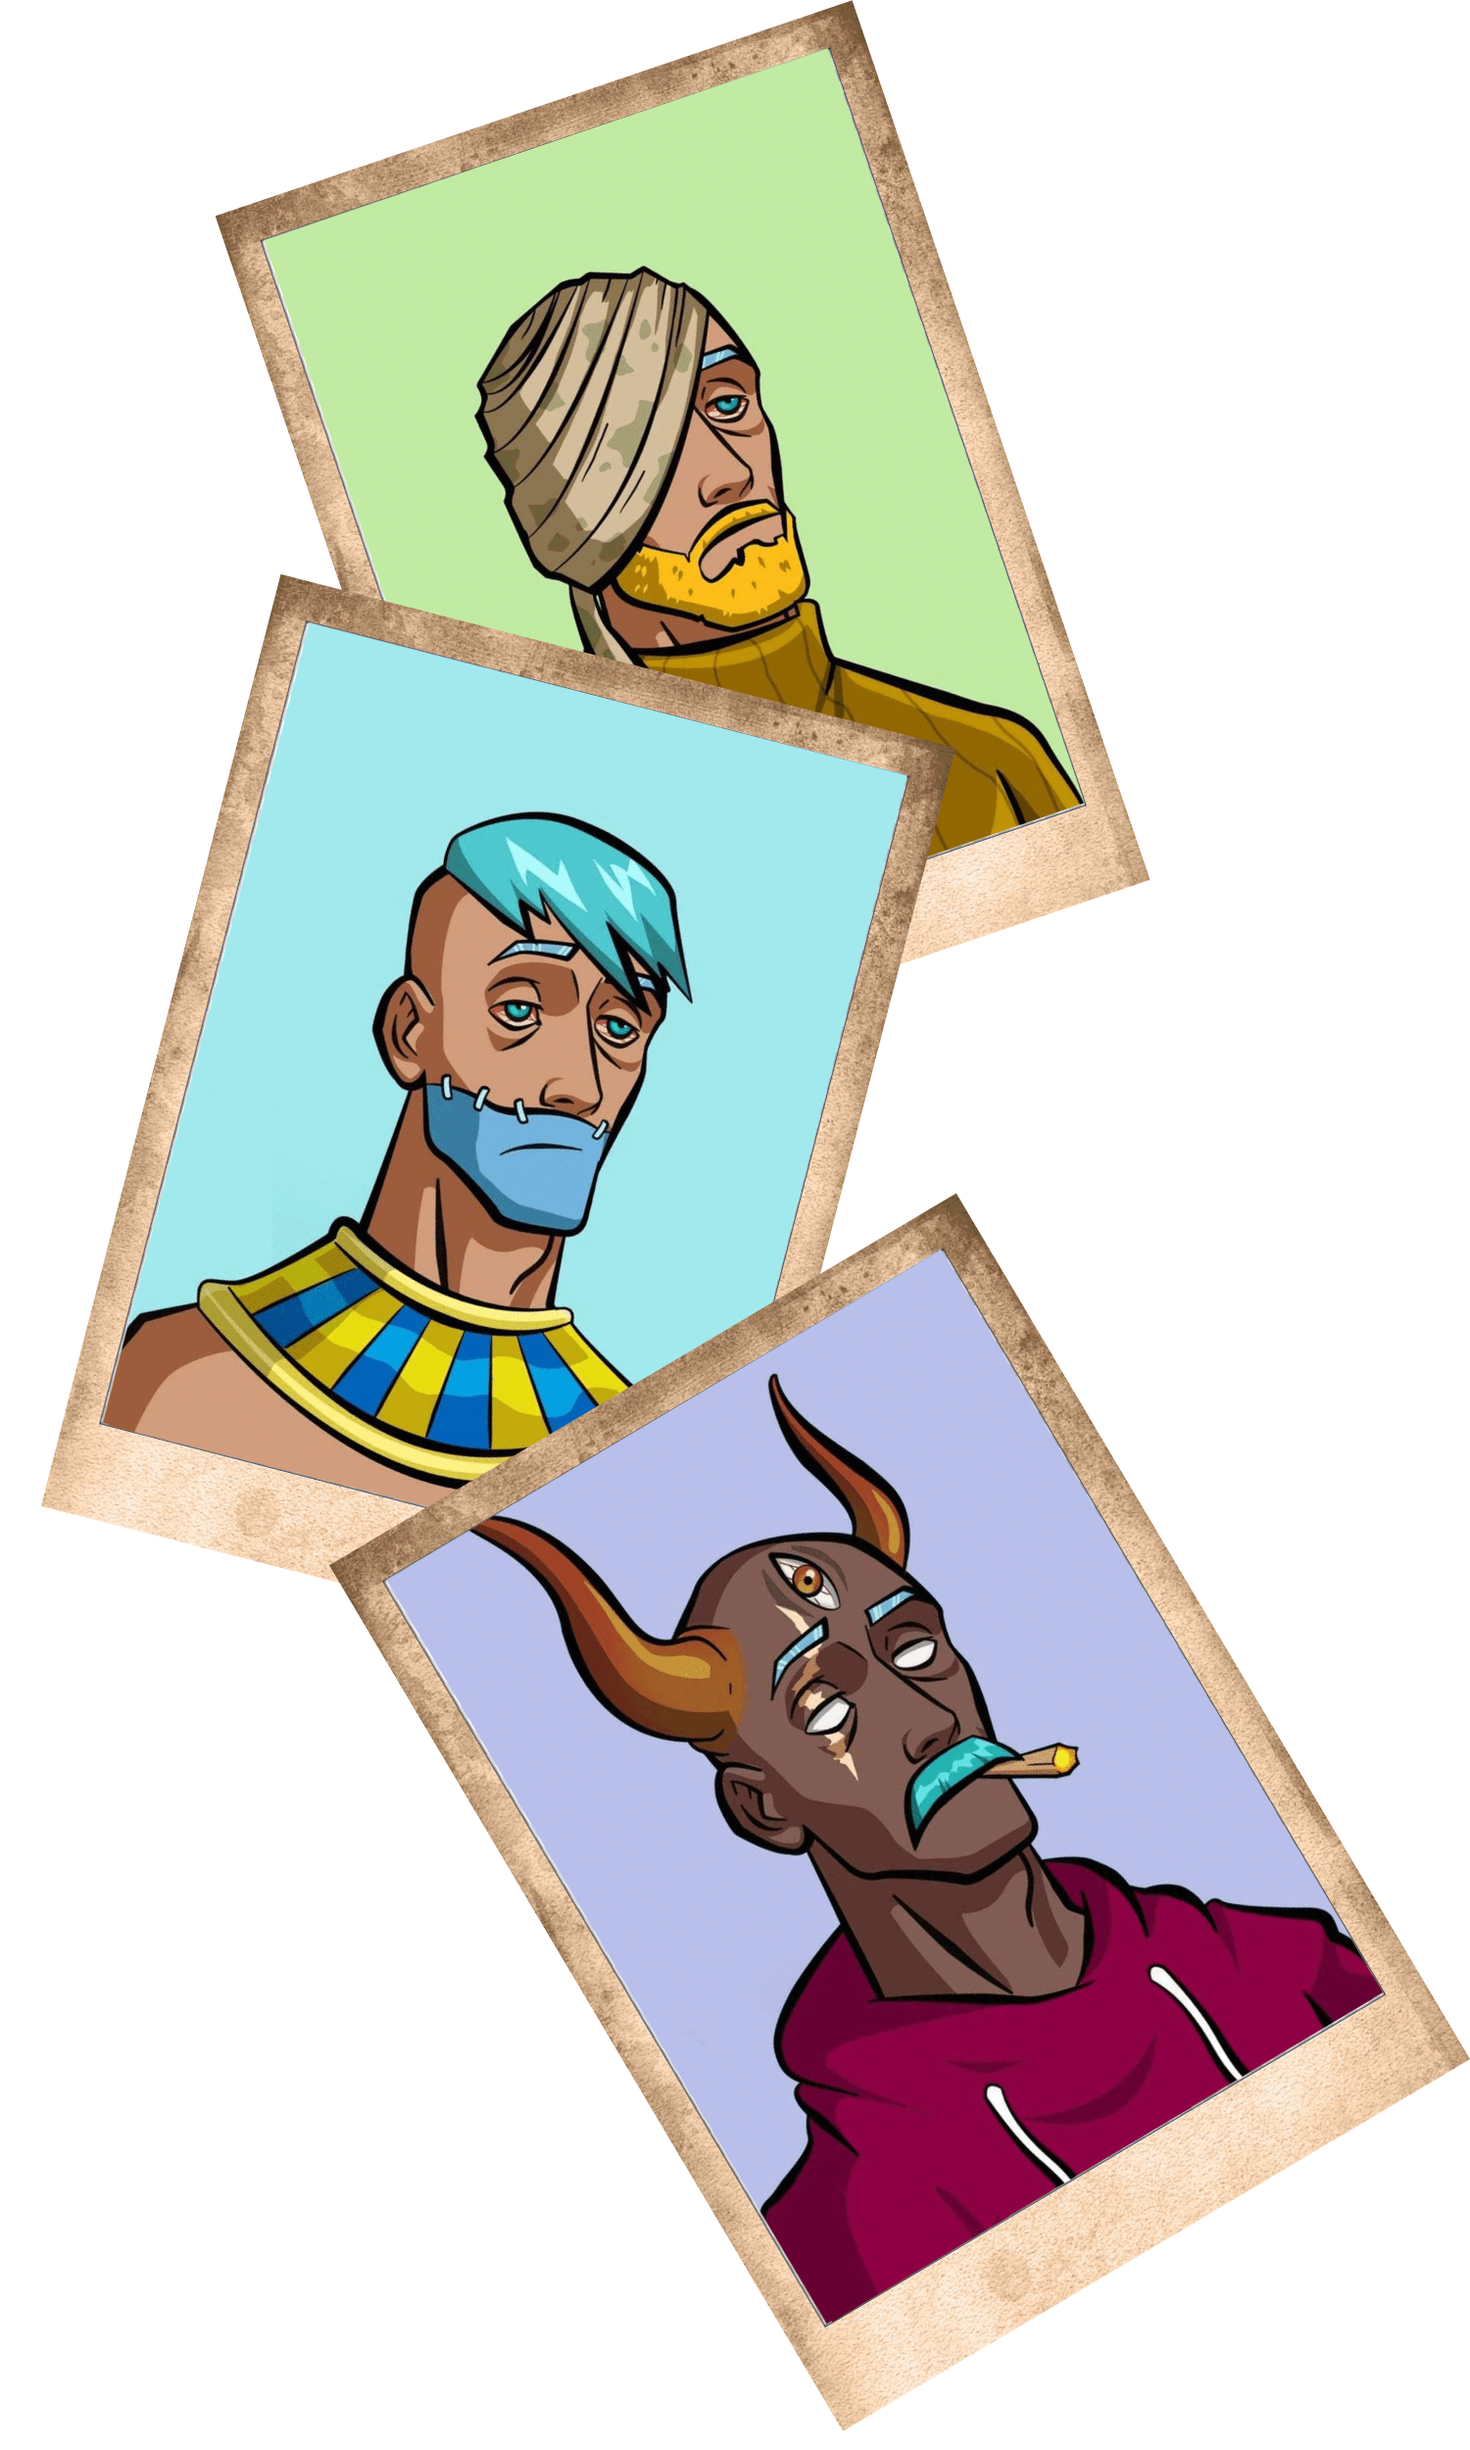
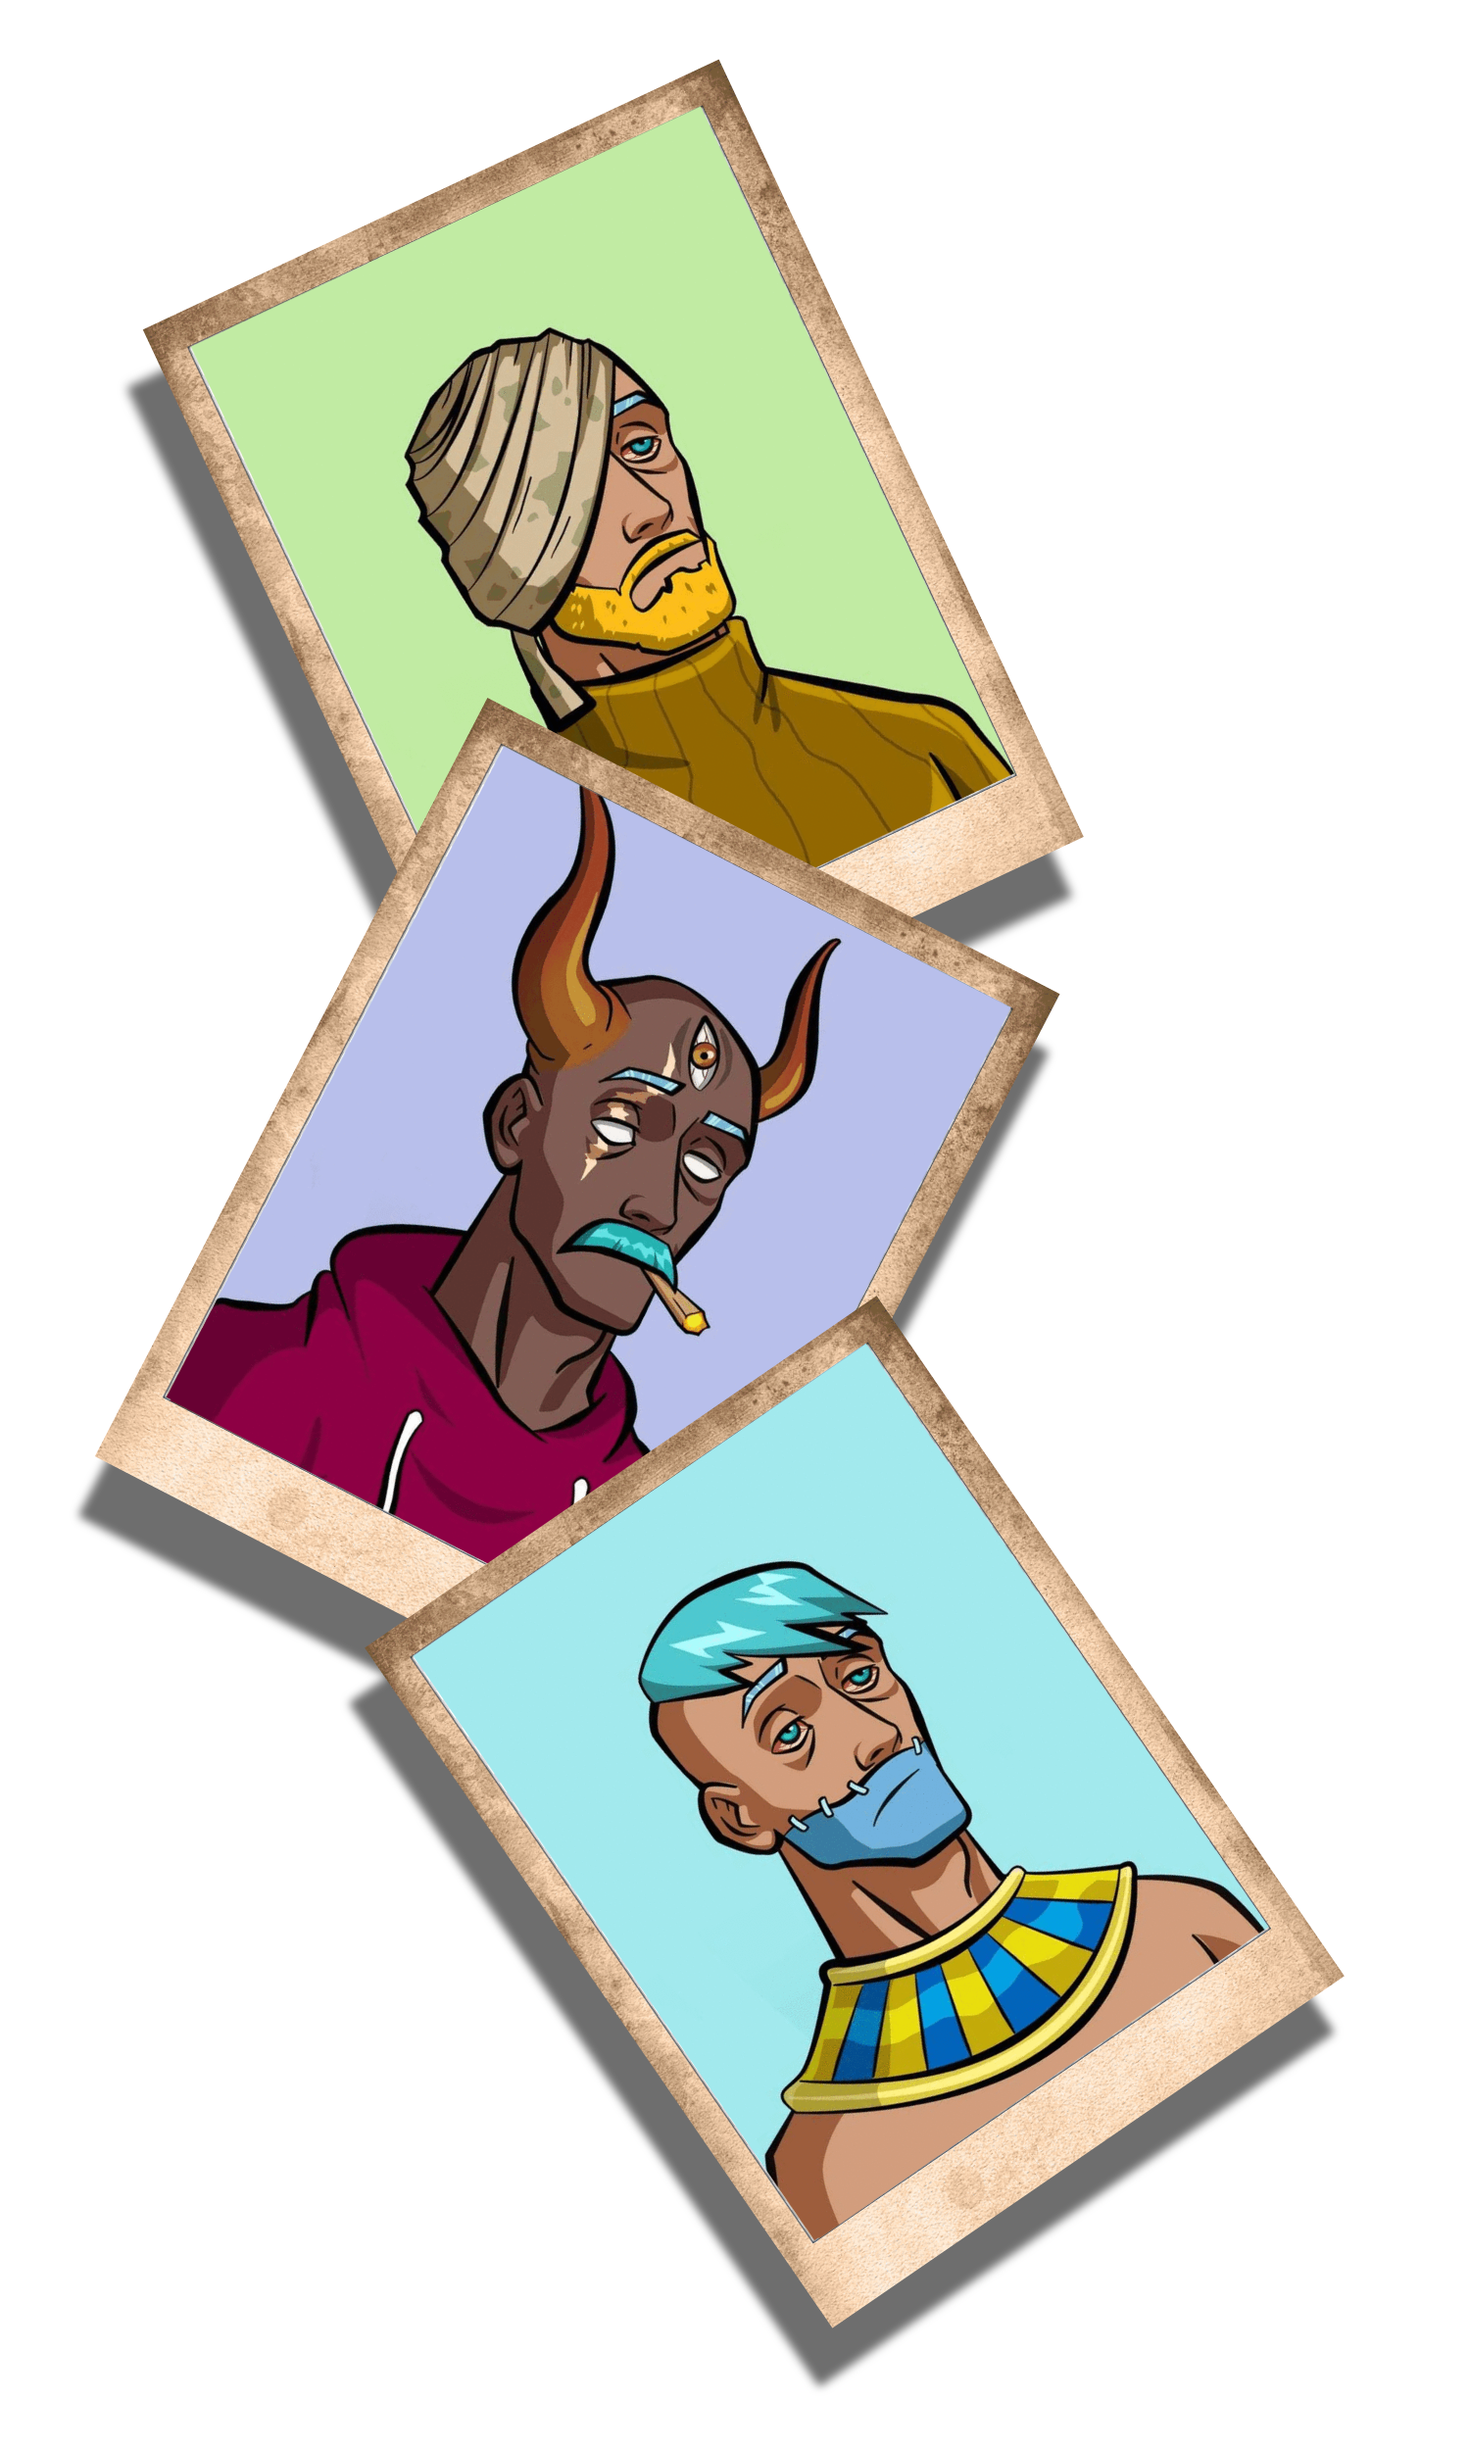
add shadow&event page, change roadmap title/step

diff --git a/src/templates/Events.tsx b/src/templates/Events.tsx
@@ -1,0 +1,24 @@
+import { Background } from '../background/Background';
+import { VerticalFeatureRow } from '../feature/VerticalFeatureRow';
+import { Section } from '../layout/Section';
+
+const Events = () => (
+  <Background
+    color="bg-white-100"
+    className="min-h-screen bg-event-image bg-cover"
+    id="event"
+  >
+    <Section yPadding="py-3">
+      <VerticalFeatureRow
+        title={"Solomon's \"Soul Search\" Event"}
+        description={"As a collective of seasoned artists watching the NFT space burgeon from the sidelines - we knew we wanted to get involved, but we wanted to ensure we were doing something new, different, and unique. We needed to do something that would capture the attention of both traditional, and new age art markets. That's why we decided it’s time to innovate, by merging the physical and digital art worlds with \"Solomon's Soul Search\" event. \n\nSolomon's Soul won’t be found online. It will be found in your neighbourhoods - through in-person, simultaneous, street art drops in major cities around the globe. With each street art event, a unique QR code - and a chance to help Solomon find his soul in your NFT. \n\nJoin our Discord and reach out directly for further updates. Don't miss this first-of-its-kind NFT experience."}
+        image="/assets/images/event_right.png"
+        imageAlt="Second feature alt text"
+        color="gray-300"
+        rotate
+      />
+    </Section>
+  </Background>
+);
+
+export { Events };

diff --git a/src/templates/Base.tsx b/src/templates/Base.tsx
@@ -9,6 +9,7 @@ import { Roadmaps } from './Roadmaps';
 // import { VerticalFeatures } from './VerticalFeatures';
 import { Showcase } from './Showcase';
 import { Story } from './Story';
+import { Events } from './Events';
 import { Twitter, Discord } from './SocialIcons';
 // import Parallax from 'react-springy-parallax';
 // import Parallax from '../components/parallax';
@@ -84,6 +85,11 @@ const Base = () => {
                     <li>
                       <Link href="/#story">
                         <a>STORY</a>
+                      </Link>
+                    </li>
+                    <li>
+                      <Link href="/#event">
+                        <a>EVENT</a>
                       </Link>
                     </li>
                     <li>
@@ -183,6 +189,13 @@ const Base = () => {
                   </a>
 
                   <a
+                    href="/#event"
+                    className="text-gray-300 hover:bg-gray-400 hover:text-white block px-3 py-2 rounded-md text-xl font-medium"
+                  >
+                    EVENT
+                  </a>
+
+                  <a
                     href="/#roadmap"
                     className="text-gray-300 hover:bg-gray-400 hover:text-white block px-3 py-2 rounded-md text-xl font-medium"
                   >
@@ -214,6 +227,7 @@ const Base = () => {
     <Hero />
     <Showcase />
     <Story />
+    <Events />
     <Roadmaps />
     {/* <Team /> */}
     <style jsx>

diff --git a/src/templates/Roadmaps.tsx b/src/templates/Roadmaps.tsx
@@ -15,13 +15,13 @@ const Roadmaps = () => {
       className="min-h-screen bg-roadmap-image bg-cover lg:bg-full"
       id="roadmap"
     >
-      <Section title="Roadmaps" description="" yPadding="py-32">
+      <Section title="SOLOMON'S JOURNEY" description="" yPadding="py-32">
         <div className="text-2xl inline-block relative">
           {steps.map(step => 
             <div className="text-center px-6 w-full lg:w-1/3 mt-4 lg:mt-8 float-left" key={step.title}>
               <div className="bg-gray-600 rounded-lg flex items-center justify-center border border-gray-100">
-                <div className="w-1/3 bg-transparent h-20 lg:h-20 flex items-center justify-center icon-step text-gray-100">
-                  {step.title}
+                <div className="w-1/3 bg-transparent h-20 lg:h-20 flex items-center justify-center icon-step text-gray-800 bg-roadmap-step-image bg-contain bg-no-repeat bg-center text-3xl">
+                  <div className="h-16 flex items-center text-center pt-8">{step.title}</div>
                 </div>
                 <div className="w-2/3 bg-gray-200 h-20 lg:h-24 flex flex-col items-center justify-center px-1 rounded-r-lg body-step">
                   <p className="text-lg text-gray-800">

diff --git a/src/feature/VerticalFeatureRow.tsx b/src/feature/VerticalFeatureRow.tsx
@@ -9,6 +9,7 @@ type IVerticalFeatureRowProps = {
   reverse?: boolean;
   color?: string;
   rotate?: boolean;
+  shadow?: string;
 };
 
 const VerticalFeatureRow = (props: IVerticalFeatureRowProps) => {
@@ -37,10 +38,10 @@ const VerticalFeatureRow = (props: IVerticalFeatureRowProps) => {
 
       <div className="w-full sm:w-1/2 p-6 pt-20">
         {props.rotate ? (
-          <div className="transform rotate-project-rotate">
+          <div className="transform rotate-project-rotate pb-12">
             <img
               src={`${router.basePath}${props.image}`}
-              className="ml-10p"
+              className={`ml-10p ${props.shadow? props.shadow : ''}`}
               alt={props.imageAlt}
               width="80%"
             />

diff --git a/tailwind.config.js b/tailwind.config.js
@@ -90,8 +90,13 @@ module.exports = {
         'button-image': "url('/assets/images/button_alt.png')",
         'project-image': "url('/assets/images/projects_wallpaper.jpg')",
         'story-image': "url('/assets/images/story_wallpaper.png')",
+        'event-image': "url('/assets/images/event_wallpaper.jpg')",
         'roadmap-image': "url('/assets/images/roadmap_wallpaper.png')",
+        'roadmap-step-image': "url('/assets/images/spirit.png')",
         // 'footer-texture': "url('/img/footer-texture.png')",
+      },
+      boxShadow: {
+        image: '20px 20px 12px 0 rgba(20, 20, 20, 0.9)',
       }
     },
   },

diff --git a/src/templates/Showcase.tsx b/src/templates/Showcase.tsx
@@ -16,6 +16,7 @@ const Showcase = () => (
         imageAlt="Second feature alt text"
         color="white"
         rotate
+        shadow="shadow-image"
       />
     </Section>
   </Background>
